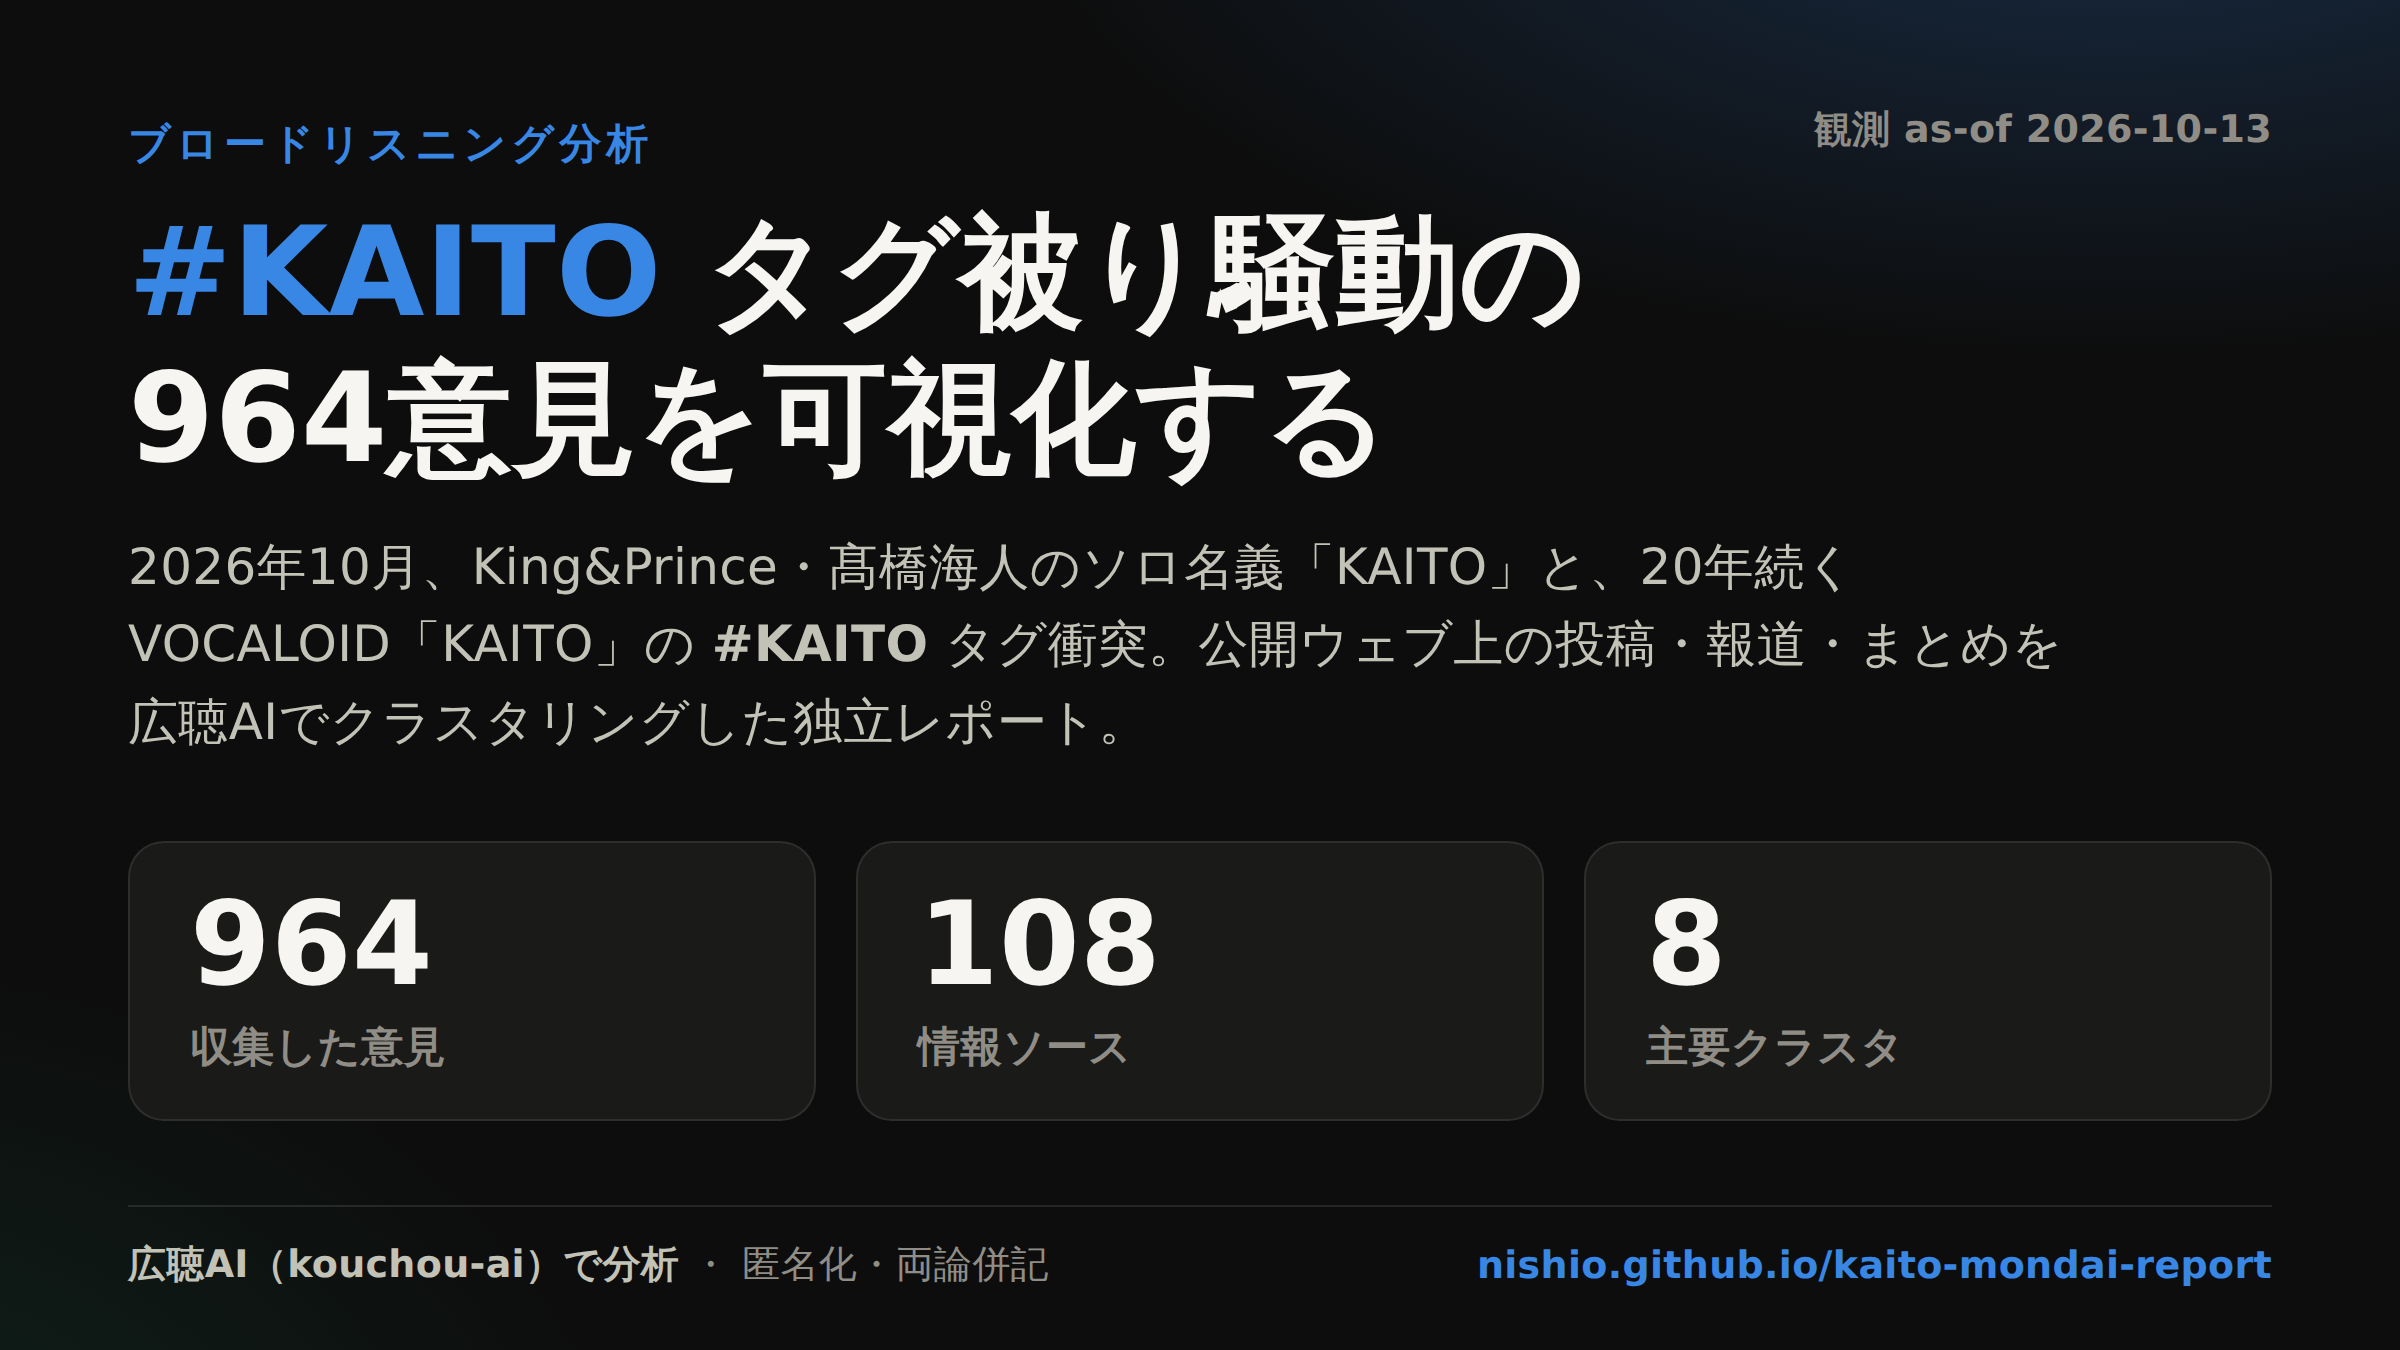
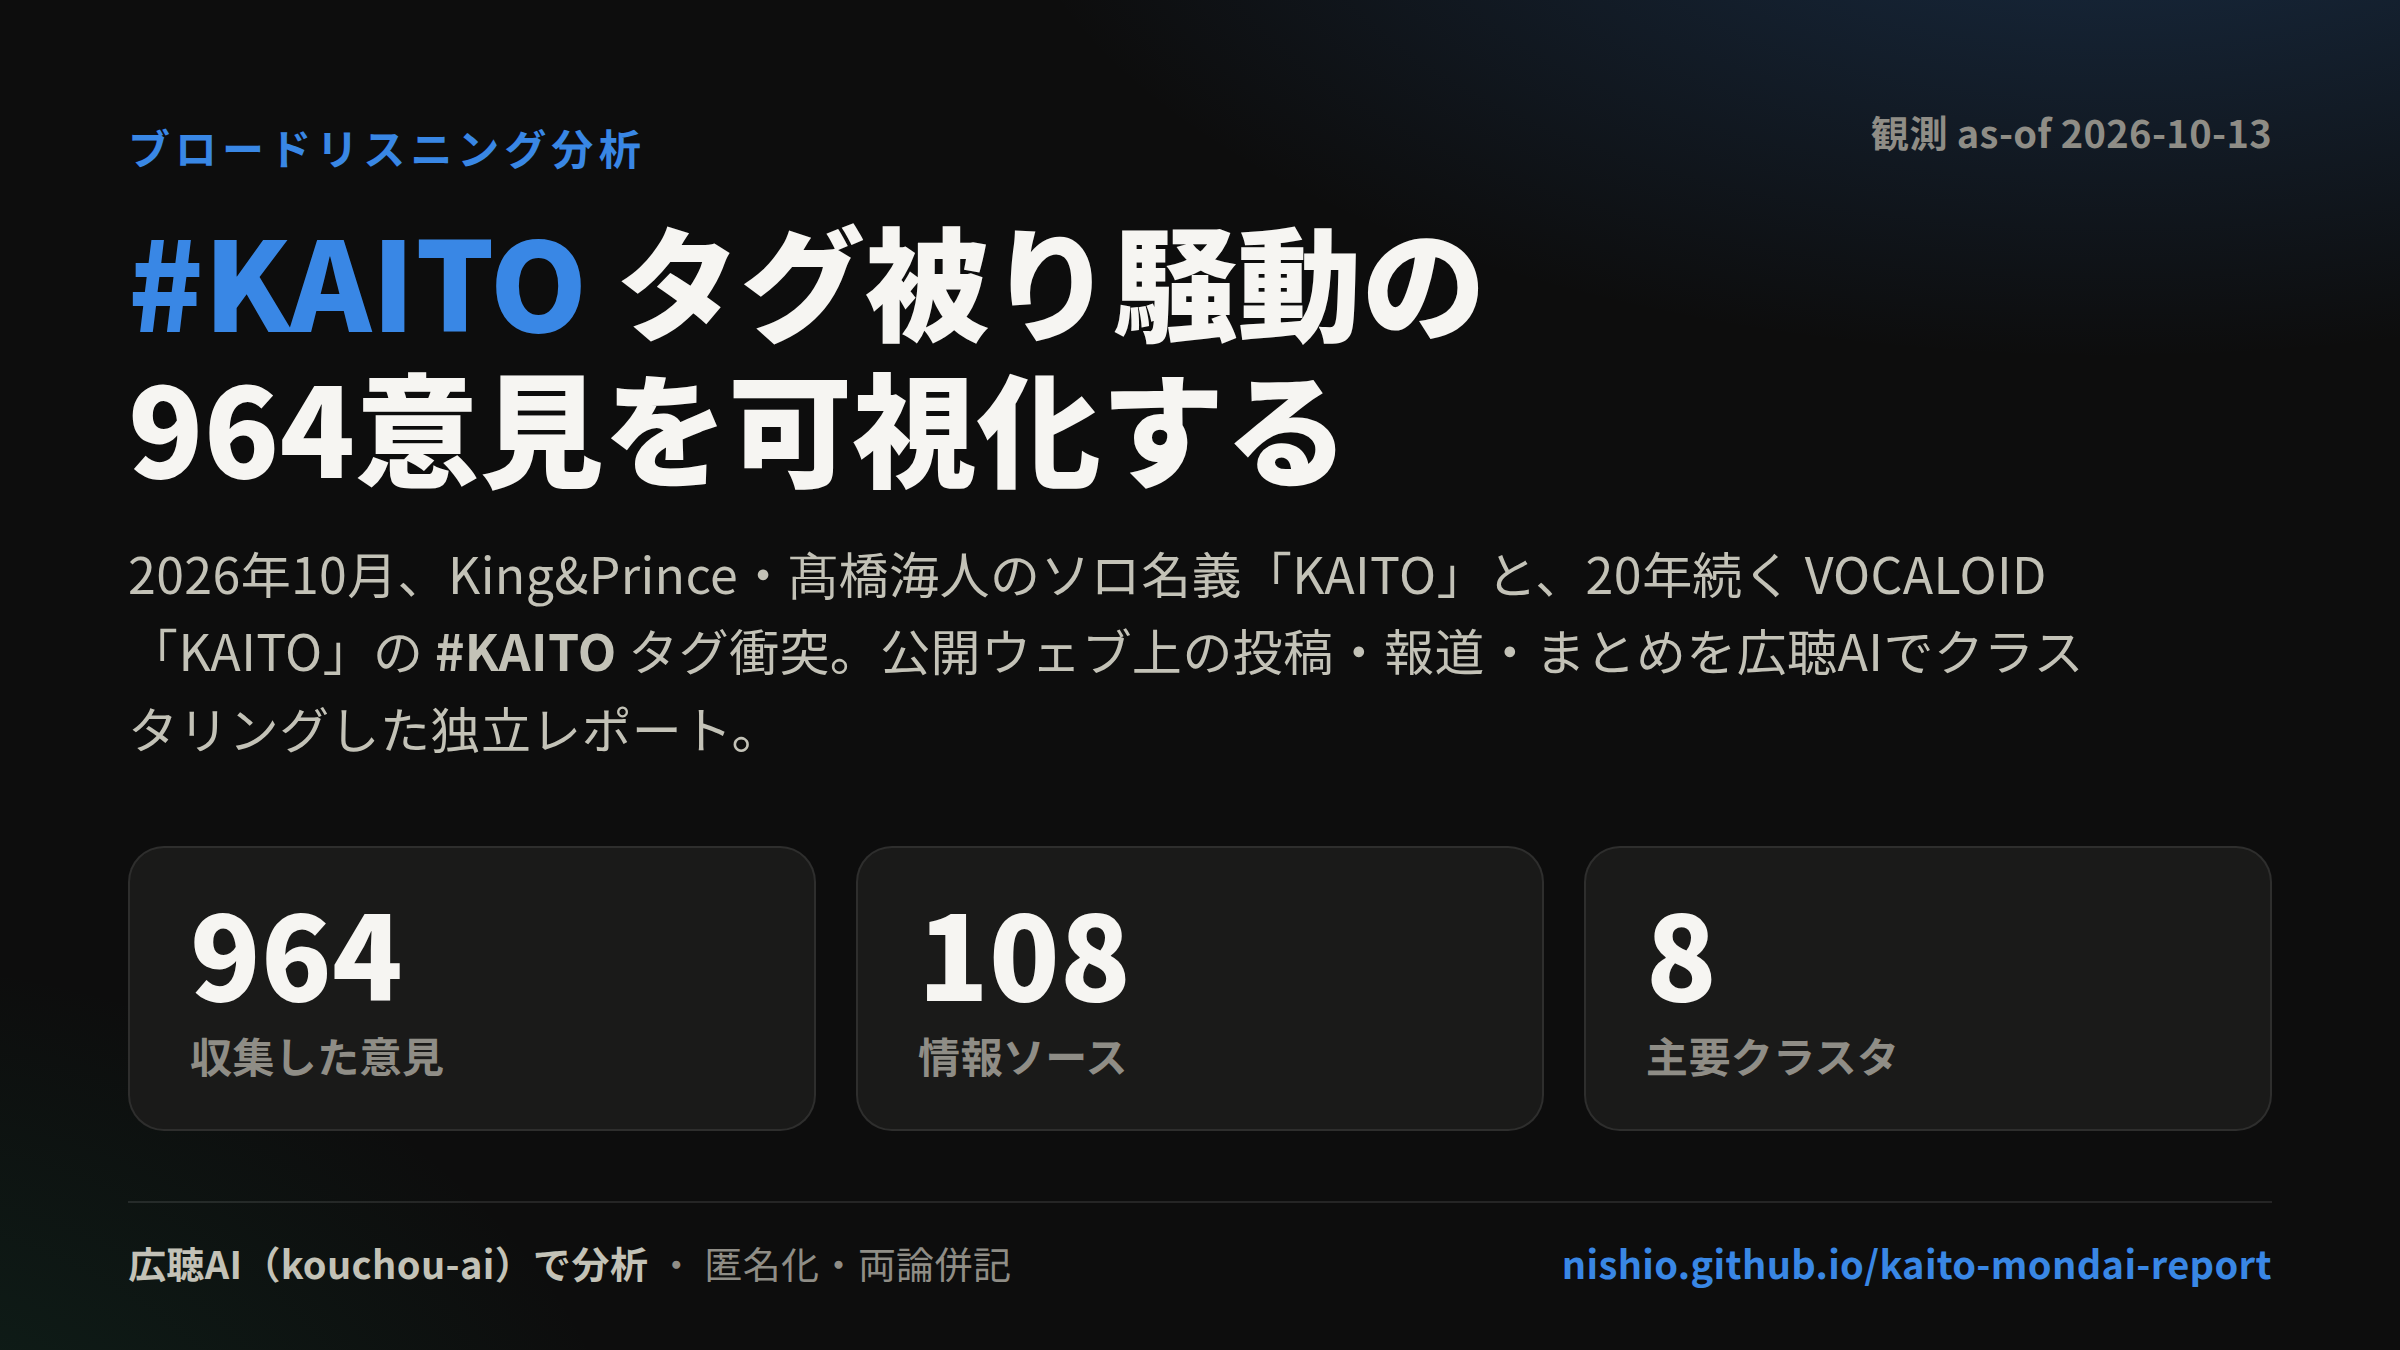
カードのフォント刷新 + クラスタ局面表示を平均比ベースに改善
- X投稿カード: Noto Sans JP(実ウェイト400/700/900)で描画し直し（偽ボールドの崩れを解消）
- レポートのクラスタ局面: 多数派のclashではなく全体平均比で特徴を表示
  （和解寄り/再炎上が突出/ほぼ初期衝突）→ #5=和解40%, #4=再炎上20% 等が可視化
- _fonts は .gitignore（描画はPNGに焼き込み済みなので公開不要）

diff --git a/cards.html b/cards.html
@@ -4,6 +4,9 @@
 <meta charset="utf-8">
 <title>KAITO cards</title>
 <style>
+  @font-face{font-family:"Noto Sans JP";font-style:normal;font-weight:400;font-display:block;src:url(_fonts/noto-400.woff2) format("woff2")}
+  @font-face{font-family:"Noto Sans JP";font-style:normal;font-weight:700;font-display:block;src:url(_fonts/noto-700.woff2) format("woff2")}
+  @font-face{font-family:"Noto Sans JP";font-style:normal;font-weight:900;font-display:block;src:url(_fonts/noto-900.woff2) format("woff2")}
   :root{
     --bg:#0d0d0d; --surface:#1a1a19; --surface2:#232321;
     --ink:#f6f5f2; --ink2:#c3c2b7; --muted:#8f8d86; --accent:#3987e5;
@@ -18,11 +21,11 @@
       radial-gradient(700px 500px at -8% 115%, color-mix(in srgb,var(--reconcile) 16%, transparent), transparent 60%),
       var(--bg);
     color:var(--ink);
-    font-family:system-ui,-apple-system,"Segoe UI","Hiragino Kaku Gothic ProN","Noto Sans JP",sans-serif;
-    -webkit-font-smoothing:antialiased; letter-spacing:.01em;
+    font-family:"Noto Sans JP",system-ui,-apple-system,"Segoe UI",sans-serif;
+    -webkit-font-smoothing:antialiased; letter-spacing:.012em;
   }
   .card{width:1200px; height:675px; padding:58px 64px 0; display:flex; flex-direction:column; position:relative}
-  .kicker{font-size:21px; font-weight:800; letter-spacing:.12em; color:var(--accent); text-transform:uppercase}
+  .kicker{font-size:21px; font-weight:700; letter-spacing:.12em; color:var(--accent); text-transform:uppercase}
   .kicker.w{color:var(--warn)}
   h1{font-size:62px; line-height:1.18; font-weight:900; letter-spacing:.002em; margin-top:14px}
   h1.sm{font-size:50px}
@@ -31,7 +34,7 @@
   .foot{position:absolute; left:64px; right:64px; bottom:30px; display:flex; justify-content:space-between;
     align-items:center; font-size:19px; color:var(--muted); border-top:1px solid rgba(255,255,255,.1); padding-top:16px}
   .foot b{color:var(--ink2); font-weight:700}
-  .foot .url{color:var(--accent); font-weight:800}
+  .foot .url{color:var(--accent); font-weight:700}
   .spacer{flex:1}
   /* stat tiles */
   .tiles{display:flex; gap:20px; margin-top:40px}
@@ -42,9 +45,9 @@
   .phases{display:flex; align-items:stretch; gap:16px; margin-top:40px}
   .ph{flex:1; border-radius:18px; padding:24px 26px; color:#fff; position:relative}
   .ph.clash{background:var(--clash)} .ph.reconcile{background:var(--reconcile)} .ph.reflare{background:var(--reflare)}
-  .ph .pt{font-size:23px; font-weight:800} .ph .pe{font-size:17px; opacity:.9; font-weight:700; letter-spacing:.08em}
+  .ph .pt{font-size:23px; font-weight:700} .ph .pe{font-size:17px; opacity:.9; font-weight:700; letter-spacing:.08em}
   .ph .pv{font-size:60px; font-weight:900; line-height:1.05; margin-top:10px}
-  .ph .pv small{font-size:24px; font-weight:800}
+  .ph .pv small{font-size:24px; font-weight:700}
   .ph .pd{font-size:17px; opacity:.94; margin-top:6px; line-height:1.4}
   .arr{display:flex; align-items:center; font-size:34px; color:var(--muted); font-weight:900}
   /* cluster bars */
@@ -53,19 +56,19 @@
   .row .nm{width:360px; font-size:20px; color:var(--ink2); white-space:nowrap; overflow:hidden; text-overflow:ellipsis; font-weight:600}
   .row .track{flex:1; height:22px; background:var(--surface2); border-radius:11px; overflow:hidden}
   .row .fill{height:100%; border-radius:11px; background:var(--accent)}
-  .row .vv{width:70px; text-align:right; font-size:20px; font-weight:800; color:var(--ink); font-variant-numeric:tabular-nums}
+  .row .vv{width:70px; text-align:right; font-size:20px; font-weight:700; color:var(--ink); font-variant-numeric:tabular-nums}
   .big{font-size:40px; font-weight:900; margin-top:26px}
-  .big .vs{color:var(--muted); font-size:30px; margin:0 14px; font-weight:800}
+  .big .vs{color:var(--muted); font-size:30px; margin:0 14px; font-weight:700}
   .scat{margin-top:14px} #scat{width:100%; height:auto; display:block}
   .capline{font-size:20px; color:var(--ink2); margin-top:14px; line-height:1.4}
-  .capline b{font-weight:800}
+  .capline b{font-weight:700}
   /* verdict bullets */
   .bul{margin-top:30px; display:flex; flex-direction:column; gap:18px}
   .bul .b{display:flex; gap:16px; align-items:flex-start; font-size:25px; line-height:1.4; color:var(--ink2)}
   .bul .ic{flex:none; width:34px; height:34px; border-radius:10px; display:flex; align-items:center; justify-content:center;
     font-weight:900; font-size:21px; color:#fff; background:var(--warn); margin-top:2px}
   .bul .b b{color:var(--ink)}
-  .stamp{position:absolute; top:52px; right:64px; font-size:19px; font-weight:800; color:var(--muted)}
+  .stamp{position:absolute; top:52px; right:64px; font-size:19px; font-weight:700; color:var(--muted)}
   .legend{display:flex; gap:22px; margin-top:20px; font-size:19px; color:var(--ink2); font-weight:700}
   .legend span{display:inline-flex; align-items:center; gap:8px}
   .sw{width:15px; height:15px; border-radius:4px; display:inline-block}

diff --git a/index.html b/index.html
@@ -330,6 +330,16 @@
   var CAMPMAP={vocaloid:"ボカロ側",neutral:"中立",takahashi:"髙橋側",media:"媒体"};
   var PHASEMAP={clash:"初期衝突",reconcile:"相互理解",reflare:"再炎上"};
   function topKey(obj, map){ var best=null,bv=-1,tot=0,k; for(k in obj){tot+=obj[k];} for(k in obj){ if(obj[k]>bv){bv=obj[k];best=k;} } return best===null?null:{label:(map[best]||best), pct: tot?Math.round(bv/tot*100):0}; }
+  // 局面は clash が全体の多数派なので「トップ」ではなく全体平均比で特徴を出す
+  function phaseSig(ph){
+    var g=D.phase||{}, gl=(g.clash||0)+(g.reconcile||0)+(g.reflare||0)||1;
+    var bR=(g.reconcile||0)/gl, bF=(g.reflare||0)/gl;
+    var t=(ph.clash||0)+(ph.reconcile||0)+(ph.reflare||0); if(!t) return "—";
+    var rc=(ph.reconcile||0)/t, rf=(ph.reflare||0)/t;
+    if(bF && rf/bF>=1.5) return '<b style="color:var(--p-reflare)">再炎上が突出</b>（再炎上 '+Math.round(rf*100)+'% ／ 全体平均 '+Math.round(bF*100)+'%）';
+    if(bR && rc/bR>=1.25) return '<b style="color:var(--p-reconcile)">和解寄り</b>（相互理解 '+Math.round(rc*100)+'% ／ 全体平均 '+Math.round(bR*100)+'%）';
+    return 'ほぼ初期衝突（和解・再炎上は平均並み以下）';
+  }
 
   (function(){
     var pts=D.points||[], svg=document.getElementById("scatter");
@@ -356,8 +366,8 @@
   }).join("");
 
   document.getElementById("clusters").innerHTML = cls.map(function(c,i){
-    var tc=topKey(c.camp,CAMPMAP), tp=topKey(c.phase,PHASEMAP);
-    var sum='主な立場: <b>'+(tc?esc(tc.label)+' '+tc.pct+'%':'—')+'</b> ／ 局面: <b>'+(tp?esc(tp.label)+' '+tp.pct+'%':'—')+'</b>';
+    var tc=topKey(c.camp,CAMPMAP);
+    var sum='主な立場: <b>'+(tc?esc(tc.label)+' '+tc.pct+'%':'—')+'</b> ／ 局面: '+phaseSig(c.phase);
     return '<div class="cl"><div class="hd"><span class="kdot kc'+i+'"></span><span class="rank">#'+(i+1)+'</span><span class="lab">'+esc(c.label)+'</span>'+
       '<span class="sz">'+c.size+'件 · '+c.share+'%</span></div>'+
       '<div class="gist">'+esc(c.gist)+'</div>'+
